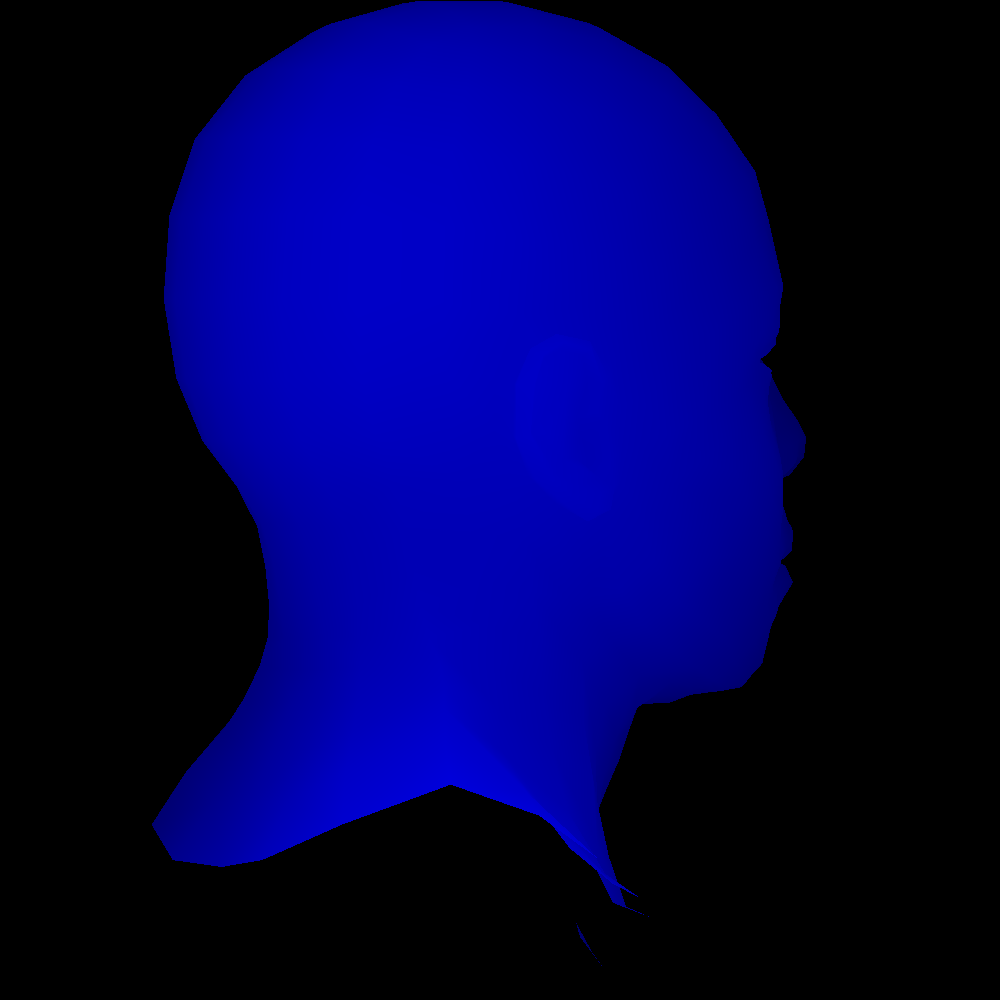
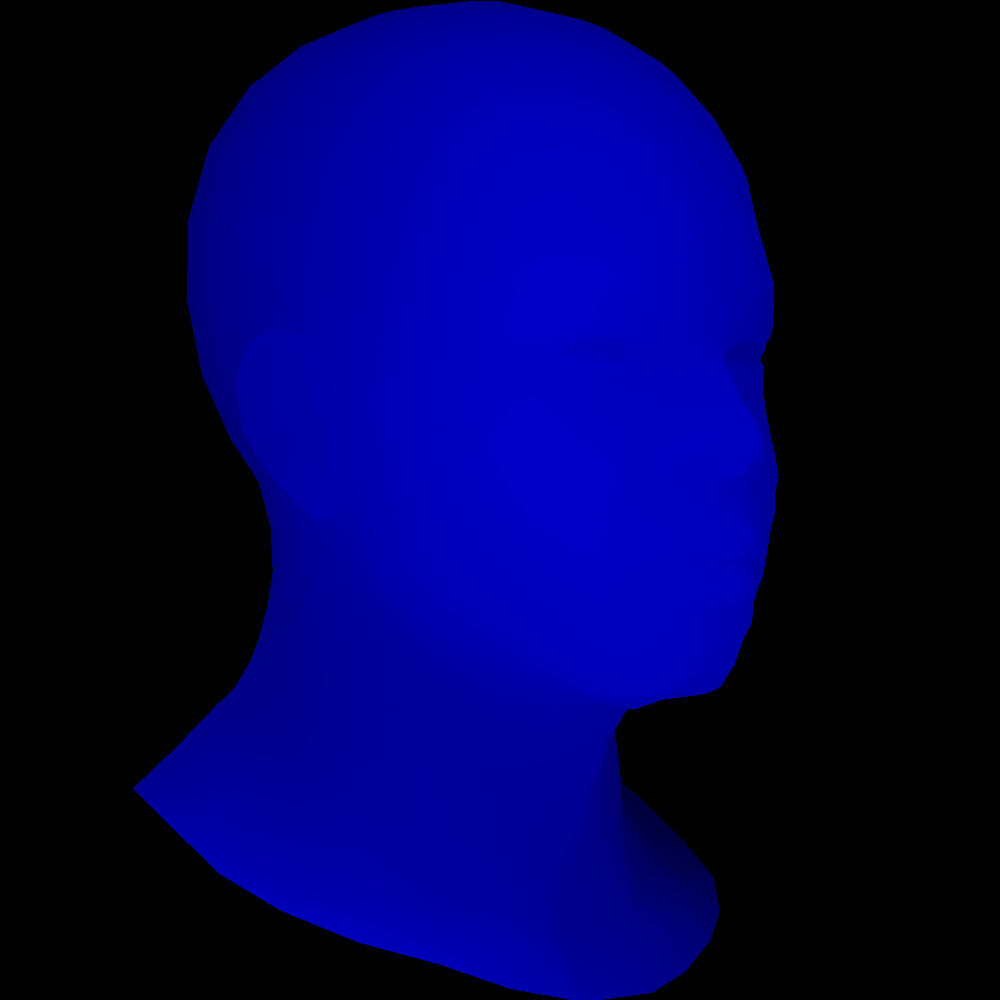
perspective project and naive camera

diff --git a/src/Main.java b/src/Main.java
@@ -29,34 +29,32 @@ public class Main {
                 // link - https://www.songho.ca/opengl/gl_viewport.html
                 // Model model = new Model("models/diablo3_pose.obj");
                 Model model = new Model("models/african_head.obj");
-                Mat3f rotateXMat3f = Mat3f.rotateY(90);
+                Mat3f rotateXMat3f = Mat3f.rotateY((float) Math.PI / 4);
 
-                for (int i = 0; i < model.facets.size(); i++) {
+                for (int i = 0; i < model.nFaces; i++) {
 
                         ArrayList<Vec3f> screenTriangleCoordinates = new ArrayList<>();
                         for (int j = 0; j < 3; j++) {
 
                                 int vertexIndex = model.facets.get(i).get(j);
                                 Vec3f vertex = model.vertices.get(vertexIndex - 1);
-                                Vec3f vertexRotated = rotateXMat3f.multiply(vertex);
-                                Vec3f vertexProjected = vertexRotated.project(width, height);
+                                Vec3f screenCoord = rotateXMat3f
+                                                .multiply(vertex)
+                                                .perspective(10)
+                                                .project(width, height);
 
-                                screenTriangleCoordinates.add(vertexProjected);
+                                // System.out.println(screenCoord);
+                                screenTriangleCoordinates.add(screenCoord);
                         }
 
                         // TODO: need projection matrix to project the coordinate properly on the screen
 
                         // TODO: Might want to view wireframe rendering in future
 
-                        int color = new Color(
-                                        (float) Math.random(),
-                                        (float) Math.random(),
-                                        (float) Math.random()).RGB();
-
                         renderer.drawTriangle(
                                         screenTriangleCoordinates.get(0),
                                         screenTriangleCoordinates.get(1),
-                                        screenTriangleCoordinates.get(2), color);
+                                        screenTriangleCoordinates.get(2), Color.generateRandomColorRGBValue());
                 }
 
                 frameBuffer.flip(false, true);

diff --git a/src/Model.java b/src/Model.java
@@ -9,8 +9,9 @@ import java.util.List;
 import src.vec.Vec3f;
 
 public class Model {
-    List<List<Integer>> facets;
-    List<Vec3f> vertices;
+    public List<List<Integer>> facets;
+    public List<Vec3f> vertices;
+    public int nFaces, nVertices;
 
     public Model(String filename) {
         this.facets = new ArrayList<>();
@@ -41,19 +42,11 @@ public class Model {
                     this.facets.add(trianglePoints);
                 }
             }
+
+            this.nFaces = this.facets.size();
+            this.nVertices = this.vertices.size();
         } catch (IOException e) {
             e.printStackTrace();
         }
-    }
-
-    public Vec3f getVertex(int vertexIndex) {
-        // Vec3f vecf =
-        // float x = (vecf.x + 1.0f) * ((width - 1) / 2);
-        // float y = (vecf.y + 1.0f) * ((height - 1) / 2);
-        // float z = (vecf.z + 1.0f) * (255.0f / 2);
-
-        // Vec3i veci = new Vec3i((int) x, (int) y, (int) z);
-        // return veci;
-        return this.vertices.get(vertexIndex - 1);
     }
 }

diff --git a/src/vec/Vec3f.java b/src/vec/Vec3f.java
@@ -76,10 +76,20 @@ public class Vec3f {
     }
 
     public Vec3f project(int width, int height) {
-        return new Vec3f(
+        Vec3f res = new Vec3f(
                 (this.x + 1.0f) * ((width - 1) / 2.0f),
                 (this.y + 1.0f) * ((height - 1) / 2.0f),
                 (this.z + 1.0f) * ((255.0f) / 2.0f));
+
+        res.x = Math.clamp(res.x, 0, width - 1);
+        res.y = Math.clamp(res.y, 0, height - 1);
+        res.z = Math.clamp(res.z, 0, 255);
+
+        return res;
+    }
+
+    public Vec3f perspective(float c) {
+        return new Vec3f(this.x, this.y, this.z).divideByScalar((c - this.z) / c);
     }
 
     @Override

diff --git a/src/Color.java b/src/Color.java
@@ -69,4 +69,13 @@ public class Color {
 
         return (0xFF << 24) | (r << 16) | (g << 8) | b;
     }
+
+    public static int generateRandomColorRGBValue() {
+        int color = new Color(
+                (float) Math.random(),
+                (float) Math.random(),
+                (float) Math.random()).RGB();
+
+        return color;
+    }
 }

diff --git a/src/Renderer.java b/src/Renderer.java
@@ -18,6 +18,7 @@ public class Renderer {
         for (int row = 0; row < this.frameBuffer.height; row++) {
             for (int col = 0; col < this.frameBuffer.width; col++) {
                 this.frameBuffer.setPixelColor(row, col, color);
+                this.zBuffer.setPixelColor(row, col, color);
             }
         }
     }
